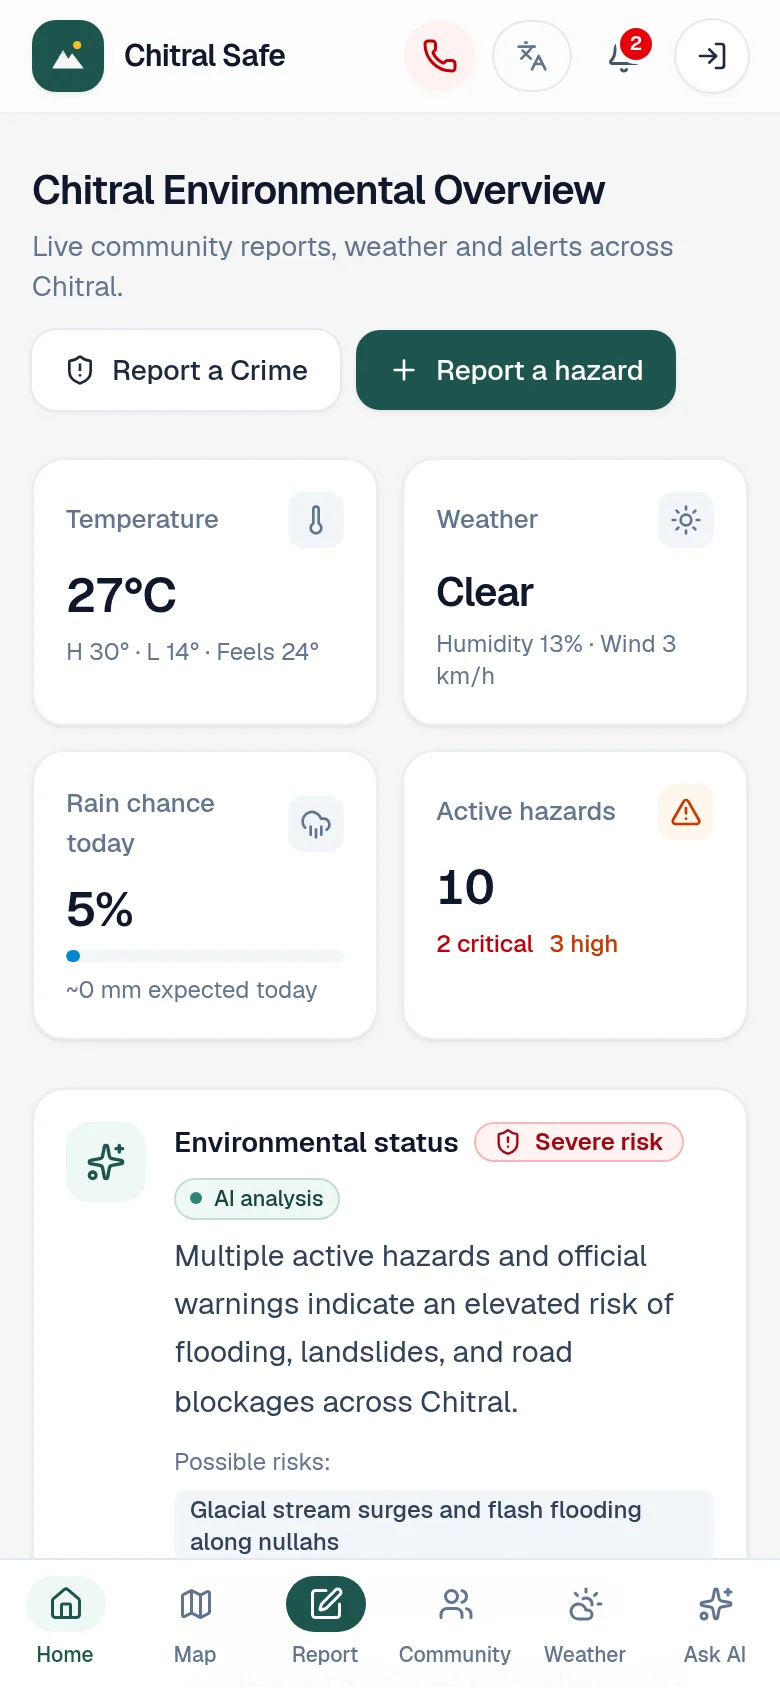
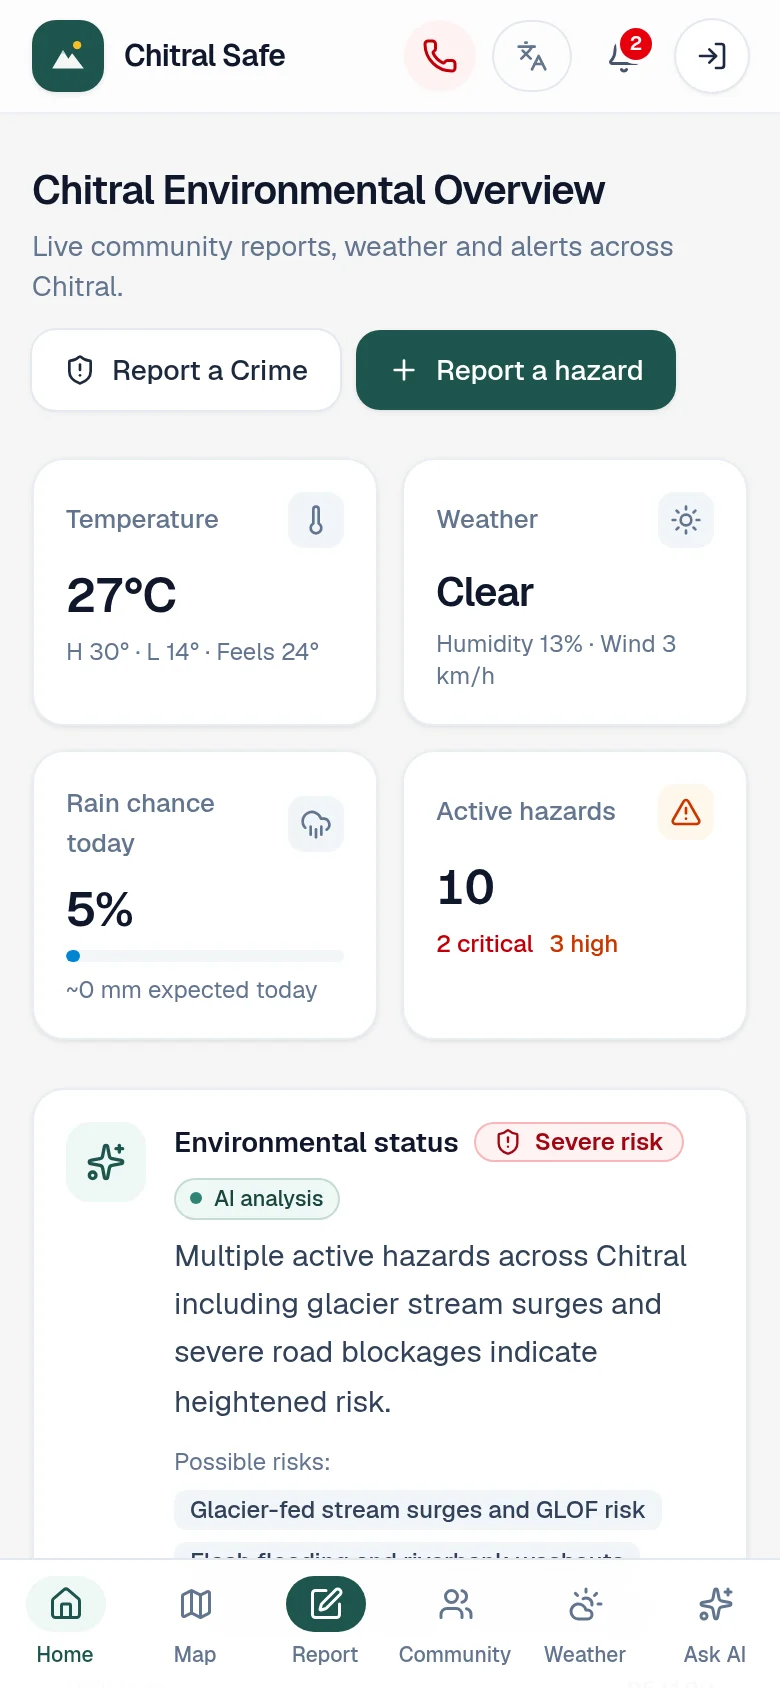
Prepare repository for evaluation: real alerts, sample labels, cleanup
- Build alerts from the live forecast and approved critical/high reports
  instead of fixed sample text that could contradict the real weather;
  the AI is told they are not official warnings.
- Label demo reports as Sample in the feed and on their page.
- Keep the AI risk summary in Urdu by giving the language instruction last.
- Remove AI coding-tool files (AGENTS.md, CLAUDE.md) and ignore them.
- Update README, UNDERSTANDING.md and screenshots to match.

Changed region(s): [[0.2154, 0.7393, 0.8923, 0.8626], [0.2462, 0.8934, 0.8308, 0.9242]]

diff --git a/lib/alerts.ts b/lib/alerts.ts
@@ -1,0 +1,145 @@
+/**
+ * Environmental alerts. The app works these out from real data; nothing is typed in by hand:
+ *  - weather alerts from the live forecast (heavy rain, heat, frost, snow)
+ *  - community alerts from approved critical or high-severity hazard reports
+ * They are NOT official government warnings.
+ */
+import { HAZARD_TERMS, isolateNumbers, placeName } from "@/lib/i18n/terms";
+import type { EnvironmentalAlert, HazardReport, Report, WeatherData } from "@/types";
+
+export function buildAlerts(weather: WeatherData, reports: Report[]): EnvironmentalAlert[] {
+  return [...weatherAlerts(weather), ...communityAlerts(reports)];
+}
+
+function weatherAlerts(w: WeatherData): EnvironmentalAlert[] {
+  if (w.source !== "open-meteo" || w.error) return []; // never from sample weather
+  const c = w.current;
+  const alerts: EnvironmentalAlert[] = [];
+  const add = (
+    a: Pick<EnvironmentalAlert, "id" | "level" | "severity" | "title" | "message" | "risks">,
+    ur: { title: string; message: string; risks: string[] },
+  ) =>
+    alerts.push({
+      ...a,
+      area: w.location,
+      issuedAt: w.updatedAt,
+      source: "Weather forecast",
+      ur: { ...ur, message: isolateNumbers(ur.message), area: placeName(w.location, "ur"), source: "موسمی پیشگوئی" },
+    });
+
+  if (c.precipitationMm >= 10) {
+    add(
+      {
+        id: "wx-heavy-rain",
+        level: "warning",
+        severity: "high",
+        title: "Heavy Rain Today",
+        message: `About ${c.precipitationMm} mm of rain is forecast today (${c.rainProbability}% chance). Streams and nullahs may rise quickly.`,
+        risks: ["Flooding", "Landslides"],
+      },
+      {
+        title: "آج شدید بارش",
+        message: `آج تقریباً ${c.precipitationMm} ملی میٹر بارش کی پیشگوئی ہے (امکان ${c.rainProbability}%)۔ ندی نالوں میں پانی تیزی سے بڑھ سکتا ہے۔`,
+        risks: ["سیلاب", "لینڈ سلائیڈ"],
+      },
+    );
+  } else if (c.rainProbability >= 60) {
+    add(
+      {
+        id: "wx-rain",
+        level: "advisory",
+        severity: "medium",
+        title: "Rain Likely Today",
+        message: `Light rain is likely today (${c.rainProbability}% chance, about ${Math.max(1, c.precipitationMm)} mm). Roads and paths may be slippery.`,
+        risks: ["Slippery roads"],
+      },
+      {
+        title: "آج بارش کا امکان",
+        message: `آج ہلکی بارش کا امکان ہے (امکان ${c.rainProbability}%، تقریباً ${Math.max(1, c.precipitationMm)} ملی میٹر)۔ سڑکیں اور راستے پھسلن والے ہو سکتے ہیں۔`,
+        risks: ["پھسلن والی سڑکیں"],
+      },
+    );
+  }
+
+  // Heat speeds up glacier melt, the main cause of glacier stream surges in Chitral.
+  if (c.high >= 35) {
+    add(
+      {
+        id: "wx-heat",
+        level: "watch",
+        severity: "high",
+        title: "Hot Day: Faster Glacier Melt",
+        message: `Temperatures up to ${c.high}°C today. Heat speeds up glacier melt, so glacier-fed streams can rise in the afternoon.`,
+        risks: ["Glacier stream surge", "Flash flood"],
+      },
+      {
+        title: "گرم دن: گلیشیئر تیزی سے پگھلیں گے",
+        message: `آج درجہ حرارت ${c.high}°C تک۔ گرمی سے گلیشیئر تیزی سے پگھلتے ہیں، اس لیے دوپہر کو گلیشیئر کے نالوں میں پانی بڑھ سکتا ہے۔`,
+        risks: ["گلیشیئر نالے میں طغیانی", "اچانک سیلاب"],
+      },
+    );
+  }
+
+  if (c.icon === "snow") {
+    add(
+      {
+        id: "wx-snow",
+        level: "advisory",
+        severity: "medium",
+        title: "Snowfall",
+        message: "Snow is forecast. High roads and passes may close.",
+        risks: ["Road closures"],
+      },
+      { title: "برف باری", message: "برف باری کی پیشگوئی ہے۔ بلند سڑکیں اور درے بند ہو سکتے ہیں۔", risks: ["سڑکوں کی بندش"] },
+    );
+  } else if (c.low <= 0) {
+    add(
+      {
+        id: "wx-frost",
+        level: "advisory",
+        severity: "medium",
+        title: "Freezing Temperatures",
+        message: `Lows of ${c.low}°C expected. Roads may be icy in the early morning.`,
+        risks: ["Icy roads"],
+      },
+      {
+        title: "شدید سردی",
+        message: `کم سے کم درجہ حرارت ${c.low}°C متوقع ہے۔ صبح سویرے سڑکوں پر پھسلن ہو سکتی ہے۔`,
+        risks: ["برفیلی سڑکیں"],
+      },
+    );
+  }
+  return alerts;
+}
+
+/** The most serious active hazard reports (critical first, then newest), at most four. */
+function communityAlerts(reports: Report[]): EnvironmentalAlert[] {
+  return reports
+    .filter(
+      (r): r is HazardReport =>
+        r.kind === "hazard" && r.status !== "resolved" && (r.severity === "critical" || r.severity === "high"),
+    )
+    .sort((a, b) =>
+      a.severity === b.severity ? b.reportedAt.localeCompare(a.reportedAt) : a.severity === "critical" ? -1 : 1,
+    )
+    .slice(0, 4)
+    .map((r) => ({
+      id: `report-${r.id}`,
+      level: r.severity === "critical" ? "warning" : "watch",
+      severity: r.severity,
+      title: HAZARD_TERMS[r.type].en,
+      area: r.locationName,
+      message: r.title,
+      risks: [],
+      issuedAt: r.reportedAt,
+      source: "Community report",
+      relatedReportId: r.id,
+      ur: {
+        title: HAZARD_TERMS[r.type].ur,
+        area: placeName(r.locationName, "ur"),
+        message: r.ur?.title ?? r.title,
+        risks: [],
+        source: "کمیونٹی رپورٹ",
+      },
+    }));
+}

diff --git a/lib/i18n/dictionary.ts b/lib/i18n/dictionary.ts
@@ -33,6 +33,7 @@ const en = {
   "common.you": "You",
   "common.new": "NEW",
   "common.yourReport": "Your report",
+  "common.sample": "Sample",
   "common.viewReport": "View report",
   "common.viewReportCta": "View Report",
   "common.viewOnMap": "View on Map",
@@ -41,6 +42,7 @@ const en = {
 
   "alerts.title": "Environmental alerts",
   "alerts.count": "{n} active across Chitral",
+  "alerts.none": "No alerts right now. Alerts appear when the forecast shows heavy rain, heat or frost, or when a serious hazard is reported.",
   "alerts.aria": "Alerts ({n})",
   "alerts.short": "Alerts",
   "level.warning": "Warning",
@@ -188,6 +190,7 @@ const en = {
   "detail.status": "Status",
   "detail.source": "Source",
   "detail.sourceVal": "Community report (unverified)",
+  "detail.sourceSample": "Sample report (demo data, not a real event)",
   "detail.guidance": "Safety guidance",
   "detail.emergency": "Emergency: call",
 
@@ -509,6 +512,7 @@ const ur: Record<DictKey, string> = {
   "common.you": "آپ",
   "common.new": "نیا",
   "common.yourReport": "آپ کی رپورٹ",
+  "common.sample": "نمونہ",
   "common.viewReport": "رپورٹ دیکھیں",
   "common.viewReportCta": "رپورٹ دیکھیں",
   "common.viewOnMap": "نقشے پر دیکھیں",
@@ -517,6 +521,7 @@ const ur: Record<DictKey, string> = {
 
   "alerts.title": "ماحولیاتی انتباہات",
   "alerts.count": "چترال بھر میں {n} فعال",
+  "alerts.none": "اس وقت کوئی انتباہ نہیں۔ انتباہ اس وقت آتا ہے جب پیشگوئی میں شدید بارش، گرمی یا سردی ہو، یا کوئی سنگین خطرہ رپورٹ ہو۔",
   "alerts.aria": "انتباہات ({n})",
   "alerts.short": "انتباہات",
   "level.warning": "انتباہ",
@@ -661,6 +666,7 @@ const ur: Record<DictKey, string> = {
   "detail.status": "حیثیت",
   "detail.source": "ذریعہ",
   "detail.sourceVal": "کمیونٹی رپورٹ (غیر تصدیق شدہ)",
+  "detail.sourceSample": "نمونہ رپورٹ (ڈیمو ڈیٹا، حقیقی واقعہ نہیں)",
   "detail.guidance": "حفاظتی ہدایات",
   "detail.emergency": "ہنگامی صورت میں کال کریں:",
 

diff --git a/lib/store.tsx b/lib/store.tsx
@@ -2,7 +2,7 @@
 
 import { createContext, useCallback, useContext, useEffect, useMemo, useRef, useState, type ReactNode } from "react";
 import { buildDemoWeather } from "@/data/weather";
-import { buildSeedAlerts } from "@/data/alerts";
+import { buildAlerts } from "@/lib/alerts";
 import { DEFAULT_LOCATION, LOCATIONS } from "@/data/locations";
 import * as api from "@/lib/api";
 import type {
@@ -110,13 +110,14 @@ export function AppStoreProvider({
   const [reports, setReports] = useState<Report[]>(initialReports);
   const [user, setUserState] = useState<CurrentUser | null>(initialUser);
   const [contacts, setContacts] = useState<EmergencyContact[]>(initialContacts);
-  const [alerts] = useState<EnvironmentalAlert[]>(() => buildSeedAlerts());
   // Real weather comes from the server with the page; sample data is only a placeholder.
   const [weather, setWeather] = useState<WeatherData>(() => initialWeather ?? buildDemoWeather());
   const [weatherStatus, setWeatherStatus] = useState<WeatherStatus>(() =>
     initialWeather ? statusOf(initialWeather) : "loading",
   );
   const hasInitialWeather = useRef(!!initialWeather);
+  // Alerts are worked out from the live weather and approved reports (see lib/alerts.ts).
+  const alerts = useMemo<EnvironmentalAlert[]>(() => buildAlerts(weather, reports), [weather, reports]);
   const [weatherPlace, setWeatherPlaceState] = useState<WeatherPlace>(DEFAULT_PLACE);
   const [chat, setChatState] = useState<ChatMessage[]>([]);
   const [aiMode, setAiMode] = useState<AIMode | null>(null);

diff --git a/lib/server/ai.ts b/lib/server/ai.ts
@@ -72,7 +72,7 @@ export async function chat(messages: ChatMessage[], context: AIContext | null, l
   }
 
   try {
-    const system = `${SYSTEM_PROMPT}\n\n${languageInstruction(lang)}\n\n${formatContext(context)}`;
+    const system = `${SYSTEM_PROMPT}\n\n${formatContext(context)}\n\n${languageInstruction(lang)}`;
     const reply = await complete(config, system, messages, 900);
     return { reply: reply.trim() || demoChat(lastUser, context, lang), mode: "live" };
   } catch (err) {
@@ -100,8 +100,10 @@ export async function analyzeRisk(
   if (!config) return { assessment: fallback, mode: "demo" };
 
   try {
-    const system = `${SYSTEM_PROMPT}\n\n${languageInstruction(lang)}\n\n${formatContext(context)}`;
-    const prompt = `${RISK_INSTRUCTIONS}\n\nScope: ${scope ?? "All of Chitral"}`;
+    const system = `${SYSTEM_PROMPT}\n\n${formatContext(context)}\n\n${languageInstruction(lang)}`;
+    const prompt = `${RISK_INSTRUCTIONS}\n\nScope: ${scope ?? "All of Chitral"}${
+      lang === "ur" ? "\n\nWrite every text value in Urdu (Urdu script), even though the app data is in English." : ""
+    }`;
     const text = await complete(config, system, [{ role: "user", content: prompt }], 500);
     const json = JSON.parse(text.slice(text.indexOf("{"), text.lastIndexOf("}") + 1));
     const levels: RiskLevel[] = ["Low", "Moderate", "High", "Severe"];

diff --git a/lib/ai/systemPrompt.ts b/lib/ai/systemPrompt.ts
@@ -15,6 +15,7 @@ Chitral Safe is a community-powered platform that helps people report, discover 
 - Weather: current conditions, 24-hour trend and 7-day forecast.
 - AI Assistant: you.
 Community reports are submitted by local people and are NOT officially verified.
+Alerts in the app are generated automatically from the weather forecast and from approved community reports. They are NOT official government warnings, so never call them "official".
 
 ## About Chitral
 - Chitral is the northernmost region of Khyber Pakhtunkhwa, split into Lower Chitral (Chitral Town, Ayun, Drosh, Garam Chashma, the Kalash valleys such as Bumburet) and Upper Chitral (Booni, Mastuj, Reshun, Torkhow, Mulkhow, Yarkhun).

diff --git a/components/community/CommunityPost.tsx b/components/community/CommunityPost.tsx
@@ -56,6 +56,9 @@ export function CommunityPost({ report, highlighted }: { report: Report; highlig
               {report.mine && (
                 <span className="rounded-full bg-brand-700 px-1.5 py-0.5 text-[10px] font-semibold text-white">{t("common.yourReport")}</span>
               )}
+              {report.sample && (
+                <span className="rounded-full bg-slate-100 px-1.5 py-0.5 text-[10px] font-semibold text-slate-600">{t("common.sample")}</span>
+              )}
             </div>
             <p className="text-xs text-slate-500">
               {t(report.kind === "crime" ? "crime.feedLabel" : "post.communityReport")} · <TimeAgo iso={report.reportedAt} />

diff --git a/components/reports/ReportDetailView.tsx b/components/reports/ReportDetailView.tsx
@@ -278,7 +278,7 @@ export function ReportDetailView({ id }: { id: string }) {
                 value={<span suppressHydrationWarning>{formatDateTime(report.reportedAt, lang)}</span>}
               />
               {report.kind === "hazard" && <Row label={t("detail.status")} value={<StatusPill status={report.status} />} />}
-              <Row label={t("detail.source")} value={t("detail.sourceVal")} />
+              <Row label={t("detail.source")} value={t(report.sample ? "detail.sourceSample" : "detail.sourceVal")} />
             </dl>
           </Card>
 

diff --git a/components/home/HomeView.tsx b/components/home/HomeView.tsx
@@ -114,7 +114,10 @@ export function HomeView() {
             title={t("alerts.title")}
             subtitle={t("alerts.count", { n: alerts.length })}
           />
-          <AlertCard alert={alerts[0]} />
+          {alerts.length === 0 && (
+            <p className="rounded-xl border border-slate-200/80 bg-white p-4 text-sm text-slate-500">{t("alerts.none")}</p>
+          )}
+          {alerts[0] && <AlertCard alert={alerts[0]} />}
           {alerts.slice(1, 3).map((a) => (
             <AlertCard key={a.id} alert={a} compact />
           ))}

diff --git a/lib/server/reports.ts b/lib/server/reports.ts
@@ -68,6 +68,7 @@ function toDto(row: ReportRow, x: Extras, view: View, viewer: SessionUser | null
     rejectionReason: view === "public" ? null : row.rejectionReason,
     reviewedAt: view === "public" ? null : (row.reviewedAt?.toISOString() ?? null),
     mine: !!viewer && row.userId === viewer.id,
+    sample: row.seedKey !== null,
     ur: row.translations?.ur,
     reporter:
       view === "admin" && !anonymous && x.author

diff --git a/types/index.ts b/types/index.ts
@@ -87,6 +87,8 @@ interface ReportBase {
   reviewedAt?: string | null;
   /** True when the signed-in user submitted it. */
   mine: boolean;
+  /** Demo content added by the app to show how it works (not a real event). */
+  sample: boolean;
   /** Urdu title/description (demo data and generated titles). */
   ur?: { title: string; description: string };
   /** Admin view only, and only for named reports (for follow-up). */

diff --git a/UNDERSTANDING.md b/UNDERSTANDING.md
@@ -159,6 +159,7 @@ Extra protections:
 - Approving a confidential report keeps it confidential.
 - The **Admin map** shows every report at its exact location: a dashed ring means pending, faded means rejected, and a lock means confidential.
 - **Restore demo reports** (button in the review queue) brings back the 11 sample hazard reports if they were deleted or rejected. Useful before a demo. The app also adds any missing demo reports automatically when it starts.
+- Demo reports are marked **"Sample"** in the community feed, and their page says "Sample report (demo data, not a real event)", so nobody mistakes them for real events. Real reports submitted by people have no such label.
 
 ### 6.6 How new reports reach the map
 
@@ -184,7 +185,15 @@ Extra protections:
 - Each reading is reused for 15 minutes, which keeps well within Open-Meteo's free limits.
 - To use sample data on purpose (for example at an exhibition with no internet), set `WEATHER_PROVIDER=demo`.
 
-### 6.8 The AI assistant
+### 6.8 Alerts
+
+- Nobody types the alerts in. The app works them out from real data every time the weather or the reports change (`lib/alerts.ts`).
+- **Weather alerts** come from the live forecast: heavy rain (10 mm or more today), rain likely (60% chance or more), a hot day of 35°C or more (heat melts glaciers faster, which can make glacier streams rise), snow, or freezing temperatures.
+- **Community alerts** come from approved reports that are **critical** (shown as a warning) or **high** (shown as a watch). Each one links to its report.
+- If none of these is true, the home page simply says there are no alerts right now.
+- They are **not official government warnings**, and the AI is told never to call them official.
+
+### 6.9 The AI assistant
 
 - The assistant receives the current app data with each question: weather, approved reports and alerts. So it can answer "What hazards are active right now?" using real information.
 - It is told never to claim certainty, and to say "may indicate an increased risk" rather than "will happen".
@@ -193,19 +202,19 @@ Extra protections:
 - **With a Google Gemini key** it tries `gemini-3.6-flash` first. If that model is busy, it automatically tries other Gemini models.
 - The API key stays on the server and is never sent to the browser.
 
-### 6.9 Emergency contacts
+### 6.10 Emergency contacts
 
 - Shown in the sidebar, in a red phone button on mobile, and on the `/emergency` page.
 - Tapping a contact opens the phone's dialler (`tel:`), messages app (`sms:`) or email (`mailto:`).
 - Only **Rescue 1122** and **Police 15** are pre-filled. Admins can add more (phone, SMS or email) in the Admin portal. No contact details were made up.
 
-### 6.10 Profiles
+### 6.11 Profiles
 
 - Users can change their name, bio and profile photo.
 - Phone number and contact email are **private**: never shown publicly. Admins can see them only on reports submitted with a name, so they can follow up.
 - Profile details are never shown on anonymous reports.
 
-### 6.11 English and Urdu
+### 6.12 English and Urdu
 
 - The **اردو / English** button in the top bar switches language, and the choice is remembered.
 - Urdu uses the **Noto Naskh Arabic** font and a right-to-left layout.
@@ -257,6 +266,7 @@ lib/                        Logic shared by the screens
   api.ts                    Every call from the browser to the server
   i18n/                     English and Urdu text
   ai/                       AI instructions, demo answers, data sent to the AI
+  alerts.ts                 Builds the alerts from real weather and reports
   hazards.ts, crime.ts      Hazard types, severities, crime categories
   mapConfig.ts              Map centre and map styles
   compressImage.ts          Shrinks photos in the browser before upload
@@ -270,7 +280,7 @@ lib/server/                 Server only
   stations.ts               Real measurements from Chitral and Drosh weather stations
   ai.ts                     Talks to Gemini / Claude / OpenAI
 
-data/                       Demo reports, places, alerts, sample weather
+data/                       Demo reports, places, sample weather
 types/                      Shared TypeScript types
 drizzle/                    Database set-up files (migrations)
 scripts/                    Database set-up, make-admin, demo images

diff --git a/README.md b/README.md
@@ -83,6 +83,9 @@ Every approved hazard is shown on a topographic map of Chitral, with markers col
 
 <img src="docs/screenshots/map.webp" alt="Live map of Chitral with coloured hazard markers, filters and a list of reports" width="100%">
 
+### 🔔 Automatic alerts
+Nobody types alerts in by hand. The app creates them from real data: **weather alerts** from the live forecast (heavy rain, a hot day that speeds up glacier melt, snow or frost) and **community alerts** from approved critical and high-severity reports, each linking to its report.
+
 ### 📸 Report a hazard in under a minute
 Choose the hazard type (flood, landslide, glacier hazard, road blockage, heavy rain, rockfall, snowfall), drop a pin or tap **Use my location**, add up to four photos, describe what you see and pick a severity. A separate **Crime** form lets people report safety incidents publicly or confidentially, with or without their name.
 
@@ -110,7 +113,7 @@ Weather comes from Open-Meteo for every town, valley and pass, with a 24-hour tr
 <td width="50%"><img src="docs/screenshots/report-detail.webp" alt="Report detail page with photo, location, map and safety guidance"></td>
 </tr>
 <tr>
-<td>People can browse, like and comment on approved reports.</td>
+<td>People can browse, like and comment on approved reports. The demo reports are clearly labelled <b>Sample</b>.</td>
 <td>Each report has its photo, exact location, a small map and safety guidance for that hazard type.</td>
 </tr>
 </table>
@@ -261,7 +264,7 @@ app/                  Web pages (each shows a screen from components/) and app/a
 components/<feature>/ Screens grouped by feature: home, map, reports, community, weather, ai, admin…
 lib/                  Shared logic: app state, English/Urdu text, AI helpers
 lib/server/           Server-only code: database, sign-in, privacy rules, photos, weather, AI
-data/                 Places in Chitral, demo reports and alerts
+data/                 Places in Chitral and demo reports
 drizzle/              Database migrations
 docs/screenshots/     The screenshots in this README
 ```
